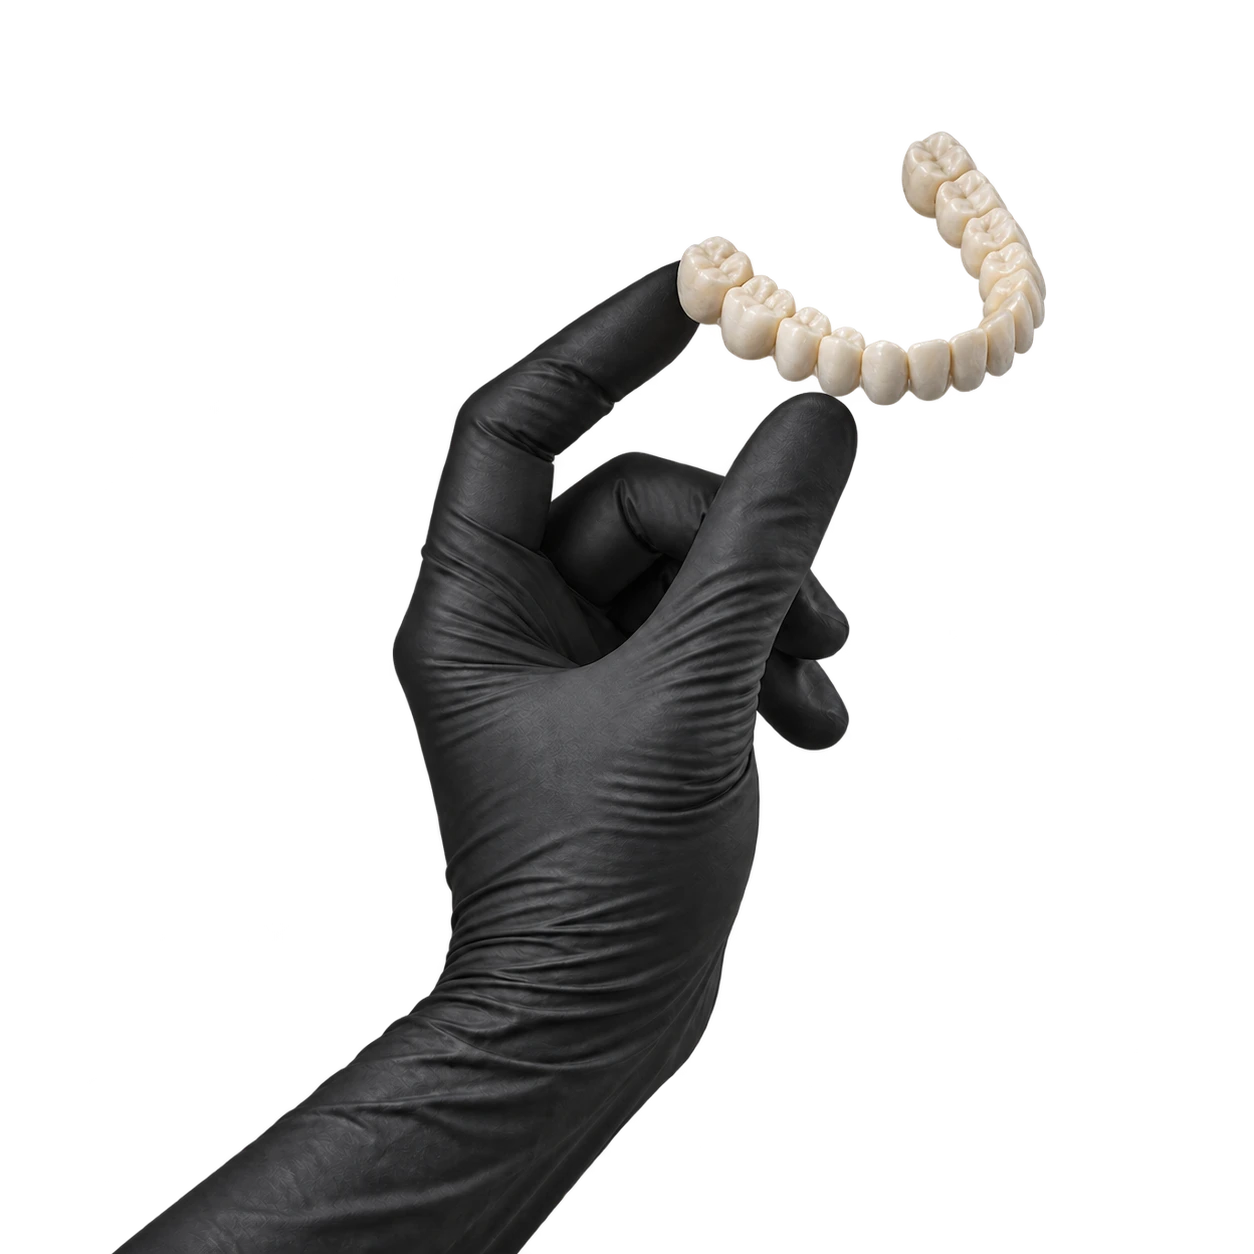
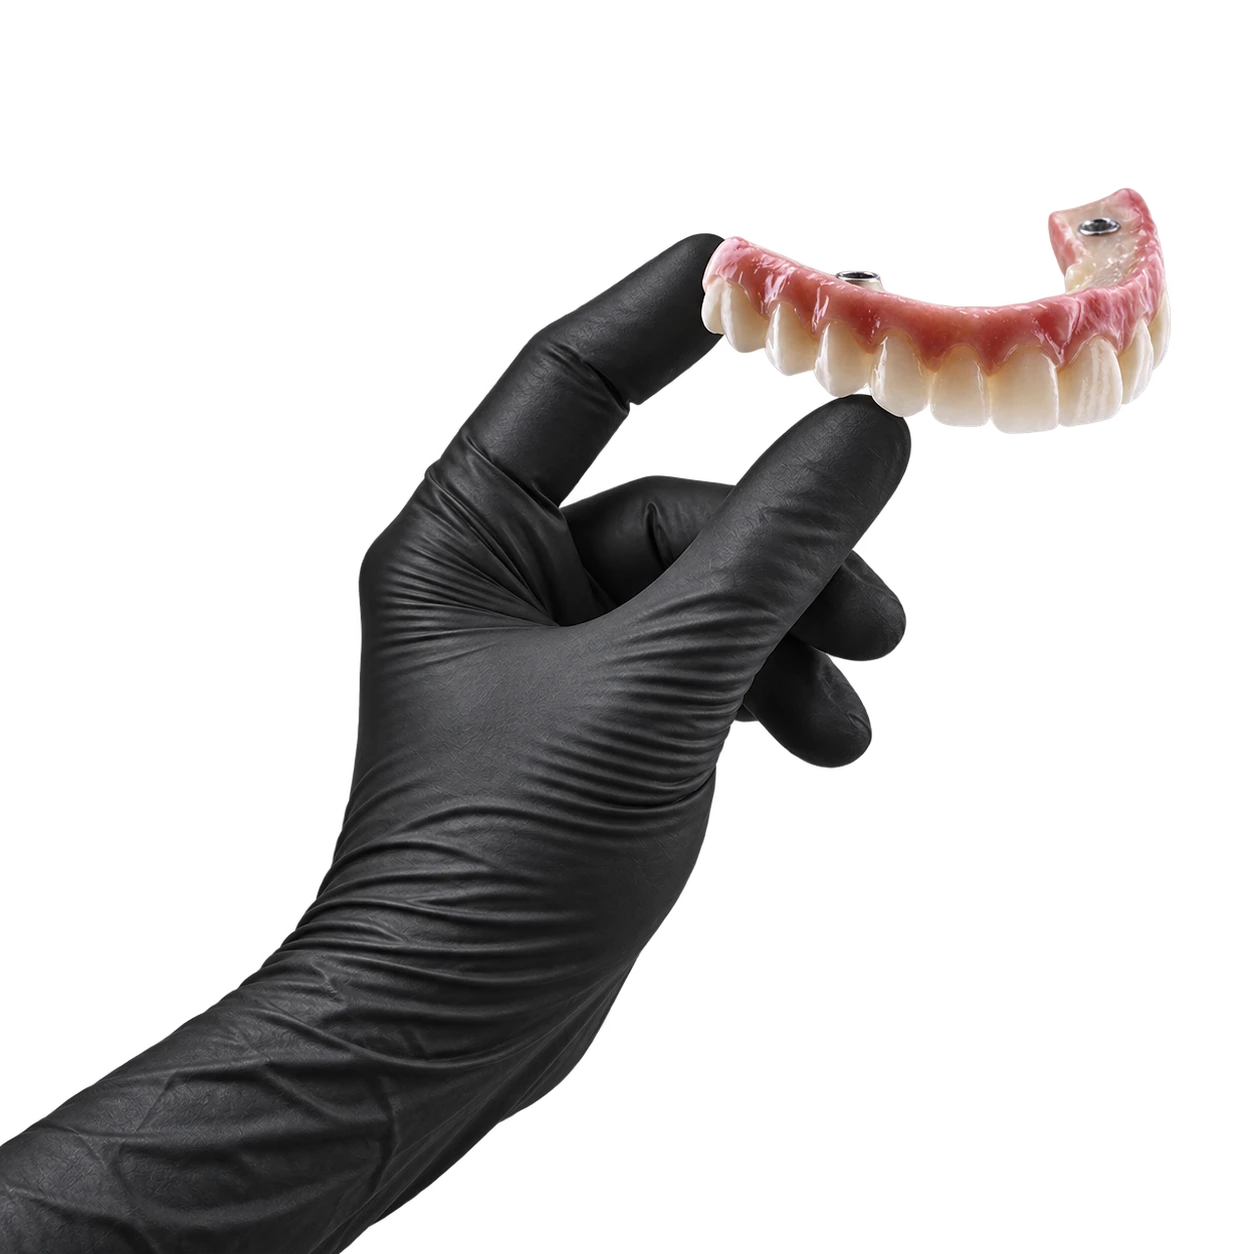
Refina prótese realista e acentua diagonal da mão no Full

Changed region(s): [[0.0, 0.0933, 0.933, 1.0]]

diff --git a/src/styles/planos-editoriais.css b/src/styles/planos-editoriais.css
@@ -7,7 +7,7 @@
 .plano-editorial--scale { overflow: visible; }
 .plano-editorial--scale .plano-editorial__foto { transform: scale(1.2); }
 /* Prótese compacta acima do título, com o mesmo acabamento suave das demais fotos. */
-.plano-editorial--full .plano-editorial__foto { transform: scale(.82); }
+.plano-editorial--full .plano-editorial__foto { transform: rotate(12deg) scale(.82); }
 .plano-editorial__simbolo { position: absolute; inset: 0; z-index: 1; background: var(--destaque); mask: var(--simbolo) center / contain no-repeat; }
 html[data-planos-tema="claro"] .plano-editorial { display: none; }
 /* Cor limitada aos planos: a introdução mantém o papel e o grafite. */

diff --git a/docs/04-design/planos-editoriais-teste.md b/docs/04-design/planos-editoriais-teste.md
@@ -40,15 +40,15 @@ Prompt final:
 
 Asset: `public/imagens/planos-editoriais/protese-dentaria.webp`.
 
-Edição da imagem anterior de mão única: mantém pose, enquadramento e escala de 82%, substituindo apenas o molde pela prótese fina em tom natural. Sem bloco de gesso nem palato; centro da arcada vazado. Sem deslocamento vertical adicional. Centro opaco e bordas suaves nas duas versões.
+Mão única com luva preta entrando da diagonal inferior esquerda, segurando prótese implantossuportada em tom natural com gengiva rosada, baseada na nova referência da usuária. Preserva escala de 82%, com rotação de 12° para acentuar a diagonal, centro opaco e bordas suaves nas duas versões. Sem bloco de gesso.
 
-Imagem base: `/Users/lenoravitorino/.codex/generated_images/01a0f7a0-9088-77f3-9efb-dbe962d52bf8/exec-8454097e-6ce4-4a5a-bade-db0924e05097.png`.
+Referência: `/var/folders/f3/2x5sz53x3gbbnvjpqz48wpxc0000gn/T/codex-clipboard-1d1fb972-d8f9-4e28-a0a4-af921b7a9a53.png`.
 
-Original editado com image_gen nativo (sem CLI): `/Users/lenoravitorino/.codex/generated_images/01a0f7a0-9088-77f3-9efb-dbe962d52bf8/exec-83ee659e-a17b-43fd-a737-b93de5c9402f.png`.
+Original editado com image_gen nativo (sem CLI): `/Users/lenoravitorino/.codex/generated_images/01a0f7a0-9088-77f3-9efb-dbe962d52bf8/exec-8c2dcc32-3a98-45f7-a24c-1c5f9f7e815a.png`.
 
 Prompt final:
 
-> Surgical precision edit of the supplied image. Change ONLY the object held by the hand. Preserve the EXACT SAME ONE black-gloved hand, all fingers, pose, wrist, glove creases, lighting, proportions, location, framing and square transparent canvas. Do not add a second hand. The hand remains holding at the exact same contact points. Replace the bulky plaster dental study cast with a thin REAL ceramic dental prosthetic bridge: only the connected curved horseshoe row of natural ivory teeth, NO plaster base block, NO solid palate filling the middle, NO jaw model, NO gum slab. The middle of the dental arch must be empty transparent space through the U shape. Same three-quarter orientation and same location at the upper right as existing teeth, delicate compact natural ceramic teeth with restrained realistic enamel highlights. Remove all cast/plaster/base material underneath and inside the teeth; the prosthesis is just a thin continuous curved row of crowns. Maintain physically believable grip by existing thumb and index finger with only minimal fingertip contact adjustment if strictly necessary; do not change overall hand silhouette or gesture. Keep realistic photographic material, NOT CGI, do not move or enlarge anything. The sole intended change is replacing the object. Transparent background, opaque subject, no text, no logos or other objects.
+> Edit the second image (single black-gloved hand holding teeth), using the FIRST image as reference for the realistic dental prosthesis ONLY. Replace the fake disconnected-looking row of teeth with a realistic compact full-arch implant dental prosthesis like reference 1: natural ivory enamel teeth with individual subtle translucency and a thin anatomical muted pink acrylic gingival band connecting them, authentic polished dental-lab microtexture and restrained photographic reflections. A continuous real prosthetic object with open U-shaped center, NOT a plaster cast, no solid palate, no jaw block. Keep pink subdued and natural, not bright red or inflamed. Teeth in natural front three-quarter view, no giant molars, no uniform cartoon beads. Do NOT reproduce any watermark/logo/text from reference 1. Keep exactly ONE hand with the same matte black nitrile glove material and delicate thumb/index grip as image 2, but change the overall wrist gesture to a distinctly sweeping diagonal FROM LOWER LEFT TOWARD UPPER RIGHT: hand/wrist axis about 45 degrees, not standing vertically in the middle. Wrist enters lower-left edge, back of hand below and left of center, fingertips hold compact prosthesis near upper-right third. Spread gesture across the diagonal of a square canvas with ample negative space; modest hand size and prosthesis 25-30% canvas width, not oversized. True editorial macro photography, anatomically realistic fine glove wrinkles, no CGI aesthetic. Soft directional studio illumination. Preserve genuine transparent alpha background, subject fully opaque. No second hand, no additional tools, no labels, no text or graphic symbols. Standalone photographic cutout.
 
 ## instrumentos-dentarios
 
